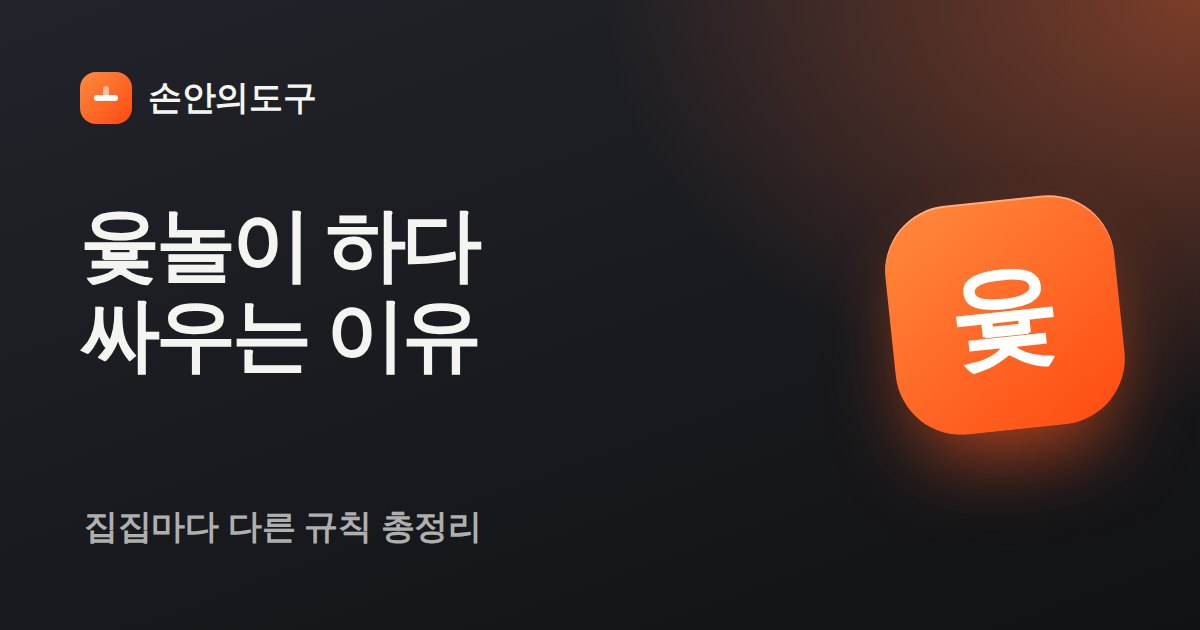
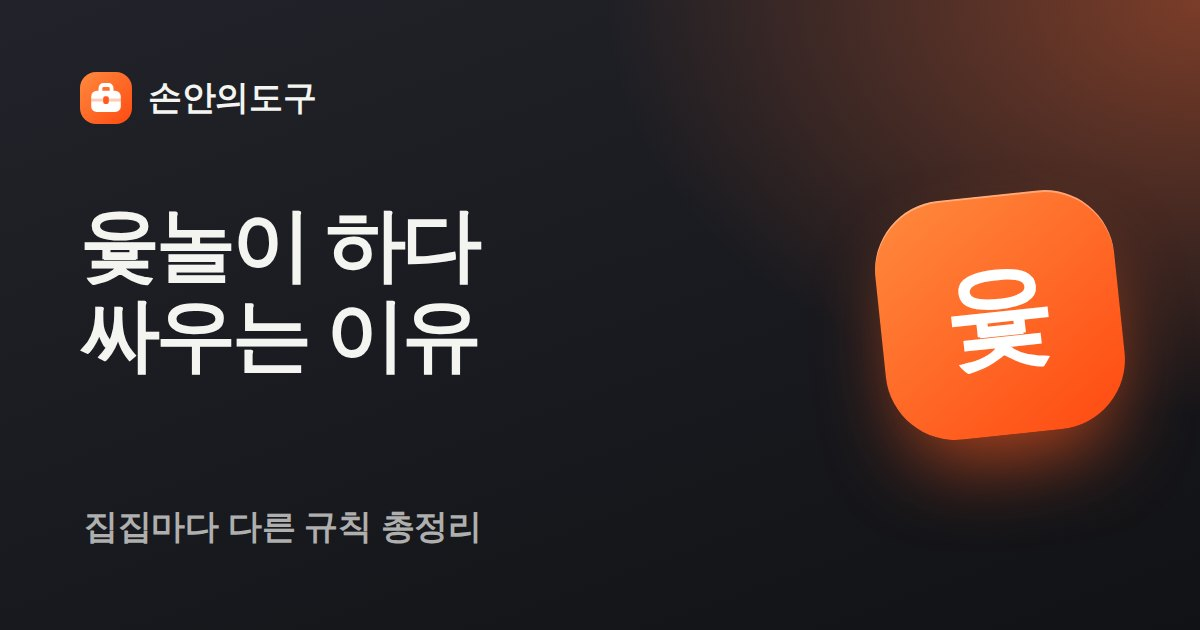
Add files via upload

diff --git a/blog/index.html b/blog/index.html
@@ -66,10 +66,13 @@ footer .fl a:hover{color:var(--ink)}
 .item p{font-size:15px; color:var(--muted); margin:0 0 12px; line-height:1.65}
 .item small{font-size:13px; color:var(--faint)}
 @media (prefers-reduced-motion:reduce){.item{transition:none}.item:hover{transform:none}}
+.item.has-thumb{display:flex; flex-direction:column; gap:16px}
+.thumb{width:100%; height:auto; aspect-ratio:16/9; object-fit:cover; border-radius:18px; background:var(--field); display:block}
+@media (min-width:640px){.item.has-thumb{flex-direction:row; align-items:center}.item.has-thumb .thumb{flex:none; width:168px; aspect-ratio:1/1}}
 </style>
 </head>
 <body>
-<header class="top"><div class="in"><a class="brand" href="/"><svg width="26" height="26" viewBox="0 0 26 26" aria-hidden="true"><defs><linearGradient id="lg" x1="0" y1="0" x2="1" y2="1"><stop offset="0" stop-color="#FF8A3D"/><stop offset="1" stop-color="#FF4A12"/></linearGradient></defs><rect width="26" height="26" rx="8" fill="url(#lg)"/><rect x="7" y="11.5" width="12" height="3" rx="1.5" fill="#fff"/><rect x="11.5" y="7" width="3" height="7.5" rx="1.5" fill="#fff" opacity=".55"/></svg>손안의도구</a><nav style="display:flex;gap:18px"><a href="/blog/">블로그</a><a href="/">전체 도구</a></nav></div></header>
+<header class="top"><div class="in"><a class="brand" href="/"><svg width="26" height="26" viewBox="0 0 26 26" aria-hidden="true"><defs><linearGradient id="lg" x1="0" y1="0" x2="1" y2="1"><stop offset="0" stop-color="#FF8A3D"/><stop offset="1" stop-color="#FF4A12"/></linearGradient></defs><rect width="26" height="26" rx="8" fill="url(#lg)"/><path d="M10.2 9.6V8.1c0-.9.7-1.6 1.6-1.6h2.4c.9 0 1.6.7 1.6 1.6v1.5" fill="none" stroke="#fff" stroke-width="1.9" stroke-linecap="round"/><rect x="5.6" y="9.4" width="14.8" height="10.6" rx="2.8" fill="#fff"/><rect x="5.6" y="13.3" width="14.8" height="1.5" fill="#FF6A2B" opacity=".35"/><rect x="11.6" y="12.1" width="2.8" height="3.9" rx="1" fill="#FF5A1F"/></svg>손안의도구</a><nav style="display:flex;gap:18px"><a href="/blog/">블로그</a><a href="/">전체 도구</a></nav></div></header>
 
 <div class="container">
   <section class="bh">
@@ -77,23 +80,32 @@ footer .fl a:hover{color:var(--ink)}
     <p>계산이 헷갈리는 순간에 꺼내 보는 짧고 쓸모 있는 글.</p>
   </section>
   <main class="list">
-    <a class="item" href="/blog/dutch-pay/">
+    <a class="item has-thumb" href="/blog/dutch-pay/">
+      <img class="thumb" src="/assets/blog/dutch-pay-thumb.webp" alt="" loading="lazy" width="480" height="480">
+      <div class="tx">
       <span class="tag">생활 계산</span>
       <h2>N빵하면 왜 꼭 누군가 서운할까?</h2>
       <p>술 한 잔 마셨는데 똑같이 내고, 송금은 실타래처럼 꼬이고. 항목별로 나누기부터 최소 송금, 끝자리 잔돈 처리까지 깔끔한 정산법.</p>
       <small>2026년 11월 2일 · 4분</small>
+      </div>
     </a>
-    <a class="item" href="/blog/salary-raise/">
+    <a class="item has-thumb" href="/blog/salary-raise/">
+      <img class="thumb" src="/assets/blog/salary-raise-thumb.webp" alt="" loading="lazy" width="480" height="360">
+      <div class="tx">
       <span class="tag">생활 계산</span>
       <h2>연봉 5% 인상, 진짜 얼마나 오른 걸까?</h2>
       <p>A는 150만 원, B는 140만 원 올랐는데 누가 더 많이 오른 걸까. 인상률 계산법과 물가를 뺀 실질 인상률, 2%p 차이가 10년 뒤 850만 원이 되는 이유까지.</p>
       <small>2026년 11월 2일 · 5분</small>
+      </div>
     </a>
-    <a class="item" href="/blog/percent-point/">
+    <a class="item has-thumb" href="/blog/percent-point/">
+      <img class="thumb" src="/assets/blog/percent-point-thumb.webp" alt="" loading="lazy" width="480" height="480">
+      <div class="tx">
       <span class="tag">생활 계산</span>
       <h2>금리 2%에서 3%, 1% 올랐다는 말이 틀린 이유</h2>
       <p>이자가 절반이나 늘었는데 1%밖에 안 올랐다고? 퍼센트와 퍼센트포인트의 차이, 50% 떨어지고 50% 오르면 본전이 안 되는 이유까지.</p>
       <small>2026년 11월 2일 · 4분</small>
+      </div>
     </a>
     <a class="item" href="/blog/yut-rules/">
       <span class="tag">전통 놀이</span>

diff --git a/index.html b/index.html
@@ -82,10 +82,12 @@ footer .fl a:hover{color:var(--ink)}
 .pt{display:inline-block; font-size:12.5px; font-weight:700; color:var(--orange); background:rgba(255,90,31,.08); border-radius:999px; padding:4px 10px; margin-bottom:10px}
 .pi strong{display:block; font-size:19px; font-weight:800; letter-spacing:-.03em; margin-bottom:4px}
 .pd{font-size:14.5px; color:var(--muted)}
+.pi{overflow:hidden}
+.pi .pth{float:right; width:84px; height:84px; object-fit:cover; border-radius:16px; margin-left:14px}
 </style>
 </head>
 <body>
-<header class="top"><div class="in"><a class="brand" href="/"><svg width="26" height="26" viewBox="0 0 26 26" aria-hidden="true"><defs><linearGradient id="lg" x1="0" y1="0" x2="1" y2="1"><stop offset="0" stop-color="#FF8A3D"/><stop offset="1" stop-color="#FF4A12"/></linearGradient></defs><rect width="26" height="26" rx="8" fill="url(#lg)"/><rect x="7" y="11.5" width="12" height="3" rx="1.5" fill="#fff"/><rect x="11.5" y="7" width="3" height="7.5" rx="1.5" fill="#fff" opacity=".55"/></svg>손안의도구</a><nav style="display:flex;gap:18px"><a href="/blog/">블로그</a><a href="/">전체 도구</a></nav></div></header>
+<header class="top"><div class="in"><a class="brand" href="/"><svg width="26" height="26" viewBox="0 0 26 26" aria-hidden="true"><defs><linearGradient id="lg" x1="0" y1="0" x2="1" y2="1"><stop offset="0" stop-color="#FF8A3D"/><stop offset="1" stop-color="#FF4A12"/></linearGradient></defs><rect width="26" height="26" rx="8" fill="url(#lg)"/><path d="M10.2 9.6V8.1c0-.9.7-1.6 1.6-1.6h2.4c.9 0 1.6.7 1.6 1.6v1.5" fill="none" stroke="#fff" stroke-width="1.9" stroke-linecap="round"/><rect x="5.6" y="9.4" width="14.8" height="10.6" rx="2.8" fill="#fff"/><rect x="5.6" y="13.3" width="14.8" height="1.5" fill="#FF6A2B" opacity=".35"/><rect x="11.6" y="12.1" width="2.8" height="3.9" rx="1" fill="#FF5A1F"/></svg>손안의도구</a><nav style="display:flex;gap:18px"><a href="/blog/">블로그</a><a href="/">전체 도구</a></nav></div></header>
 <div class="container">
   <section class="hero">
     <h1>꺼내서 쓰고,<br><span>바로 닫으세요.</span></h1>
@@ -115,9 +117,9 @@ footer .fl a:hover{color:var(--ink)}
   </main>
   <section class="posts">
     <div class="ph"><h2>읽어볼 만한 글</h2><a href="/blog/">전체 보기</a></div>
-    <a class="pi" href="/blog/dutch-pay/"><span class="pt">생활 계산</span><strong>N빵하면 왜 꼭 누군가 서운할까?</strong><span class="pd">항목별로 나누고 최소 송금으로 깔끔하게</span></a>
-    <a class="pi" href="/blog/salary-raise/"><span class="pt">생활 계산</span><strong>연봉 5% 인상, 진짜 얼마나 오른 걸까?</strong><span class="pd">인상률, 물가를 뺀 실질 인상률, 10년 뒤의 차이</span></a>
-    <a class="pi" href="/blog/percent-point/"><span class="pt">생활 계산</span><strong>금리 2%에서 3%, 1% 올랐다는 말이 틀린 이유</strong><span class="pd">이자가 절반 늘었는데 1% 올랐다는 착각</span></a>
+    <a class="pi" href="/blog/dutch-pay/"><img class="pth" src="/assets/blog/dutch-pay-thumb.webp" width="480" height="480" alt="" loading="lazy"><span class="pt">생활 계산</span><strong>N빵하면 왜 꼭 누군가 서운할까?</strong><span class="pd">항목별로 나누고 최소 송금으로 깔끔하게</span></a>
+    <a class="pi" href="/blog/salary-raise/"><img class="pth" src="/assets/blog/salary-raise-thumb.webp" width="480" height="480" alt="" loading="lazy"><span class="pt">생활 계산</span><strong>연봉 5% 인상, 진짜 얼마나 오른 걸까?</strong><span class="pd">인상률, 물가를 뺀 실질 인상률, 10년 뒤의 차이</span></a>
+    <a class="pi" href="/blog/percent-point/"><img class="pth" src="/assets/blog/percent-point-thumb.webp" width="480" height="480" alt="" loading="lazy"><span class="pt">생활 계산</span><strong>금리 2%에서 3%, 1% 올랐다는 말이 틀린 이유</strong><span class="pd">이자가 절반 늘었는데 1% 올랐다는 착각</span></a>
   </section>
 </div>
 <footer><span><b>손안의도구</b> · 꺼내서 쓰고, 바로 닫는 생활 도구</span><span class="fl"><a href="/about/">사이트 소개</a><a href="/privacy/">개인정보처리방침</a></span></footer>

diff --git a/blog/salary-raise/index.html b/blog/salary-raise/index.html
@@ -146,14 +146,17 @@ td:last-child,th:last-child{text-align:right}
 .ill .p3{stroke:var(--faint); stroke-width:4; fill:none; stroke-linecap:round}
 .ill .p5{stroke:#FF5A1F; stroke-width:5; fill:none; stroke-linecap:round}
 .ill .grid{stroke:var(--line); stroke-width:1.5}
+.hero-img{margin:0 0 30px; border-radius:28px; overflow:hidden; box-shadow:var(--shadow); background:var(--field)}
+.hero-img img{display:block; width:100%; height:auto}
 </style>
 </head>
 <body>
-<header class="top"><div class="in"><a class="brand" href="/"><svg width="26" height="26" viewBox="0 0 26 26" aria-hidden="true"><defs><linearGradient id="lg" x1="0" y1="0" x2="1" y2="1"><stop offset="0" stop-color="#FF8A3D"/><stop offset="1" stop-color="#FF4A12"/></linearGradient></defs><rect width="26" height="26" rx="8" fill="url(#lg)"/><rect x="7" y="11.5" width="12" height="3" rx="1.5" fill="#fff"/><rect x="11.5" y="7" width="3" height="7.5" rx="1.5" fill="#fff" opacity=".55"/></svg>손안의도구</a><nav style="display:flex;gap:18px"><a href="/blog/">블로그</a><a href="/">전체 도구</a></nav></div></header>
+<header class="top"><div class="in"><a class="brand" href="/"><svg width="26" height="26" viewBox="0 0 26 26" aria-hidden="true"><defs><linearGradient id="lg" x1="0" y1="0" x2="1" y2="1"><stop offset="0" stop-color="#FF8A3D"/><stop offset="1" stop-color="#FF4A12"/></linearGradient></defs><rect width="26" height="26" rx="8" fill="url(#lg)"/><path d="M10.2 9.6V8.1c0-.9.7-1.6 1.6-1.6h2.4c.9 0 1.6.7 1.6 1.6v1.5" fill="none" stroke="#fff" stroke-width="1.9" stroke-linecap="round"/><rect x="5.6" y="9.4" width="14.8" height="10.6" rx="2.8" fill="#fff"/><rect x="5.6" y="13.3" width="14.8" height="1.5" fill="#FF6A2B" opacity=".35"/><rect x="11.6" y="12.1" width="2.8" height="3.9" rx="1" fill="#FF5A1F"/></svg>손안의도구</a><nav style="display:flex;gap:18px"><a href="/blog/">블로그</a><a href="/">전체 도구</a></nav></div></header>
 <div class="container"><article class="post">
   <div class="crumb"><a href="/blog/">블로그</a> / 생활 계산</div>
   <h1>연봉 5% 인상,<br>진짜 얼마나 오른 걸까?</h1>
   <p class="meta">2026년 11월 2일 · 5분이면 읽어요</p>
+  <figure class="hero-img"><img src="/assets/blog/salary-raise.webp" width="1200" height="900" alt="계산기를 든 직장인이 올라가는 그래프와 장바구니를 보며 연봉과 물가를 생각하는 모습" fetchpriority="high"></figure>
 
   <figure class="ill" aria-label="연봉 3천만 원이 매년 3% 오르면 10년 뒤 약 4,032만 원, 매년 5% 오르면 약 4,887만 원">
     <svg viewBox="0 -10 640 310">

diff --git a/blog/dutch-pay/index.html b/blog/dutch-pay/index.html
@@ -146,14 +146,17 @@ td:last-child,th:last-child{text-align:right}
 .ill .p3{stroke:var(--faint); stroke-width:4; fill:none; stroke-linecap:round}
 .ill .p5{stroke:#FF5A1F; stroke-width:5; fill:none; stroke-linecap:round}
 .ill .grid{stroke:var(--line); stroke-width:1.5}
+.hero-img{margin:0 0 30px; border-radius:28px; overflow:hidden; box-shadow:var(--shadow); background:var(--field)}
+.hero-img img{display:block; width:100%; height:auto}
 </style>
 </head>
 <body>
-<header class="top"><div class="in"><a class="brand" href="/"><svg width="26" height="26" viewBox="0 0 26 26" aria-hidden="true"><defs><linearGradient id="lg" x1="0" y1="0" x2="1" y2="1"><stop offset="0" stop-color="#FF8A3D"/><stop offset="1" stop-color="#FF4A12"/></linearGradient></defs><rect width="26" height="26" rx="8" fill="url(#lg)"/><rect x="7" y="11.5" width="12" height="3" rx="1.5" fill="#fff"/><rect x="11.5" y="7" width="3" height="7.5" rx="1.5" fill="#fff" opacity=".55"/></svg>손안의도구</a><nav style="display:flex;gap:18px"><a href="/blog/">블로그</a><a href="/">전체 도구</a></nav></div></header>
+<header class="top"><div class="in"><a class="brand" href="/"><svg width="26" height="26" viewBox="0 0 26 26" aria-hidden="true"><defs><linearGradient id="lg" x1="0" y1="0" x2="1" y2="1"><stop offset="0" stop-color="#FF8A3D"/><stop offset="1" stop-color="#FF4A12"/></linearGradient></defs><rect width="26" height="26" rx="8" fill="url(#lg)"/><path d="M10.2 9.6V8.1c0-.9.7-1.6 1.6-1.6h2.4c.9 0 1.6.7 1.6 1.6v1.5" fill="none" stroke="#fff" stroke-width="1.9" stroke-linecap="round"/><rect x="5.6" y="9.4" width="14.8" height="10.6" rx="2.8" fill="#fff"/><rect x="5.6" y="13.3" width="14.8" height="1.5" fill="#FF6A2B" opacity=".35"/><rect x="11.6" y="12.1" width="2.8" height="3.9" rx="1" fill="#FF5A1F"/></svg>손안의도구</a><nav style="display:flex;gap:18px"><a href="/blog/">블로그</a><a href="/">전체 도구</a></nav></div></header>
 <div class="container"><article class="post">
   <div class="crumb"><a href="/blog/">블로그</a> / 생활 계산</div>
   <h1>N빵하면 왜 꼭<br>누군가 서운할까?</h1>
   <p class="meta">2026년 11월 2일 · 4분이면 읽어요</p>
+  <figure class="hero-img"><img src="/assets/blog/dutch-pay.webp" width="1200" height="1200" alt="네 친구가 테이블에 둘러앉아 영수증과 휴대폰 계산기를 보며 즐겁게 정산하는 모습" fetchpriority="high"></figure>
 
   <figure class="ill" aria-label="네 명이 서로 주고받으면 송금이 여섯 번까지 생기지만, 정리하면 두세 번으로 줄어든다">
     <svg viewBox="0 0 640 300">

diff --git a/blog/percent-point/index.html b/blog/percent-point/index.html
@@ -146,14 +146,17 @@ td:last-child,th:last-child{text-align:right}
 .ill .p3{stroke:var(--faint); stroke-width:4; fill:none; stroke-linecap:round}
 .ill .p5{stroke:#FF5A1F; stroke-width:5; fill:none; stroke-linecap:round}
 .ill .grid{stroke:var(--line); stroke-width:1.5}
+.hero-img{margin:0 0 30px; border-radius:28px; overflow:hidden; box-shadow:var(--shadow); background:var(--field)}
+.hero-img img{display:block; width:100%; height:auto}
 </style>
 </head>
 <body>
-<header class="top"><div class="in"><a class="brand" href="/"><svg width="26" height="26" viewBox="0 0 26 26" aria-hidden="true"><defs><linearGradient id="lg" x1="0" y1="0" x2="1" y2="1"><stop offset="0" stop-color="#FF8A3D"/><stop offset="1" stop-color="#FF4A12"/></linearGradient></defs><rect width="26" height="26" rx="8" fill="url(#lg)"/><rect x="7" y="11.5" width="12" height="3" rx="1.5" fill="#fff"/><rect x="11.5" y="7" width="3" height="7.5" rx="1.5" fill="#fff" opacity=".55"/></svg>손안의도구</a><nav style="display:flex;gap:18px"><a href="/blog/">블로그</a><a href="/">전체 도구</a></nav></div></header>
+<header class="top"><div class="in"><a class="brand" href="/"><svg width="26" height="26" viewBox="0 0 26 26" aria-hidden="true"><defs><linearGradient id="lg" x1="0" y1="0" x2="1" y2="1"><stop offset="0" stop-color="#FF8A3D"/><stop offset="1" stop-color="#FF4A12"/></linearGradient></defs><rect width="26" height="26" rx="8" fill="url(#lg)"/><path d="M10.2 9.6V8.1c0-.9.7-1.6 1.6-1.6h2.4c.9 0 1.6.7 1.6 1.6v1.5" fill="none" stroke="#fff" stroke-width="1.9" stroke-linecap="round"/><rect x="5.6" y="9.4" width="14.8" height="10.6" rx="2.8" fill="#fff"/><rect x="5.6" y="13.3" width="14.8" height="1.5" fill="#FF6A2B" opacity=".35"/><rect x="11.6" y="12.1" width="2.8" height="3.9" rx="1" fill="#FF5A1F"/></svg>손안의도구</a><nav style="display:flex;gap:18px"><a href="/blog/">블로그</a><a href="/">전체 도구</a></nav></div></header>
 <div class="container"><article class="post">
   <div class="crumb"><a href="/blog/">블로그</a> / 생활 계산</div>
   <h1>금리 2%에서 3%,<br>1% 올랐다는 말이 틀린 이유</h1>
   <p class="meta">2026년 11월 2일 · 4분이면 읽어요</p>
+  <figure class="hero-img"><img src="/assets/blog/percent-point.webp" width="1200" height="1200" alt="금리 2%와 3% 카드를 양손에 들고 고민하는 사람, 옆에 집 모형과 동전, 돼지 저금통" fetchpriority="high"></figure>
 
   <figure class="ill" aria-label="100에서 50% 떨어지면 50, 다시 50% 오르면 75. 원래대로 돌아오지 않는다">
     <svg viewBox="0 0 640 300">

diff --git a/about/index.html b/about/index.html
@@ -76,7 +76,7 @@ footer .fl a:hover{color:var(--ink)}
 </style>
 </head>
 <body>
-<header class="top"><div class="in"><a class="brand" href="/"><svg width="26" height="26" viewBox="0 0 26 26" aria-hidden="true"><defs><linearGradient id="lg" x1="0" y1="0" x2="1" y2="1"><stop offset="0" stop-color="#FF8A3D"/><stop offset="1" stop-color="#FF4A12"/></linearGradient></defs><rect width="26" height="26" rx="8" fill="url(#lg)"/><rect x="7" y="11.5" width="12" height="3" rx="1.5" fill="#fff"/><rect x="11.5" y="7" width="3" height="7.5" rx="1.5" fill="#fff" opacity=".55"/></svg>손안의도구</a><nav style="display:flex;gap:18px"><a href="/blog/">블로그</a><a href="/">전체 도구</a></nav></div></header>
+<header class="top"><div class="in"><a class="brand" href="/"><svg width="26" height="26" viewBox="0 0 26 26" aria-hidden="true"><defs><linearGradient id="lg" x1="0" y1="0" x2="1" y2="1"><stop offset="0" stop-color="#FF8A3D"/><stop offset="1" stop-color="#FF4A12"/></linearGradient></defs><rect width="26" height="26" rx="8" fill="url(#lg)"/><path d="M10.2 9.6V8.1c0-.9.7-1.6 1.6-1.6h2.4c.9 0 1.6.7 1.6 1.6v1.5" fill="none" stroke="#fff" stroke-width="1.9" stroke-linecap="round"/><rect x="5.6" y="9.4" width="14.8" height="10.6" rx="2.8" fill="#fff"/><rect x="5.6" y="13.3" width="14.8" height="1.5" fill="#FF6A2B" opacity=".35"/><rect x="11.6" y="12.1" width="2.8" height="3.9" rx="1" fill="#FF5A1F"/></svg>손안의도구</a><nav style="display:flex;gap:18px"><a href="/blog/">블로그</a><a href="/">전체 도구</a></nav></div></header>
 <div class="container"><main class="doc">
 <h1>필요할 때 꺼내 쓰는<br>손안의 도구 상자</h1>
 <p class="lead">손안의도구는 일상에서 문득 필요해지는 계산기, 생활 도구, 놀이, 그리고 그걸 더 잘 쓰는 법을 담은 글을 모아둔 무료 사이트입니다.</p>

diff --git a/blog/yut-rules/index.html b/blog/yut-rules/index.html
@@ -149,7 +149,7 @@ td:last-child,th:last-child{text-align:right}
 </style>
 </head>
 <body>
-<header class="top"><div class="in"><a class="brand" href="/"><svg width="26" height="26" viewBox="0 0 26 26" aria-hidden="true"><defs><linearGradient id="lg" x1="0" y1="0" x2="1" y2="1"><stop offset="0" stop-color="#FF8A3D"/><stop offset="1" stop-color="#FF4A12"/></linearGradient></defs><rect width="26" height="26" rx="8" fill="url(#lg)"/><rect x="7" y="11.5" width="12" height="3" rx="1.5" fill="#fff"/><rect x="11.5" y="7" width="3" height="7.5" rx="1.5" fill="#fff" opacity=".55"/></svg>손안의도구</a><nav style="display:flex;gap:18px"><a href="/blog/">블로그</a><a href="/">전체 도구</a></nav></div></header>
+<header class="top"><div class="in"><a class="brand" href="/"><svg width="26" height="26" viewBox="0 0 26 26" aria-hidden="true"><defs><linearGradient id="lg" x1="0" y1="0" x2="1" y2="1"><stop offset="0" stop-color="#FF8A3D"/><stop offset="1" stop-color="#FF4A12"/></linearGradient></defs><rect width="26" height="26" rx="8" fill="url(#lg)"/><path d="M10.2 9.6V8.1c0-.9.7-1.6 1.6-1.6h2.4c.9 0 1.6.7 1.6 1.6v1.5" fill="none" stroke="#fff" stroke-width="1.9" stroke-linecap="round"/><rect x="5.6" y="9.4" width="14.8" height="10.6" rx="2.8" fill="#fff"/><rect x="5.6" y="13.3" width="14.8" height="1.5" fill="#FF6A2B" opacity=".35"/><rect x="11.6" y="12.1" width="2.8" height="3.9" rx="1" fill="#FF5A1F"/></svg>손안의도구</a><nav style="display:flex;gap:18px"><a href="/blog/">블로그</a><a href="/">전체 도구</a></nav></div></header>
 <div class="container"><article class="post">
   <div class="crumb"><a href="/blog/">블로그</a> / 전통 놀이</div>
   <h1>윷놀이 하다 싸우는 이유,<br>집집마다 규칙이 달라서예요</h1>

diff --git a/blog/simple-receipt/index.html b/blog/simple-receipt/index.html
@@ -149,7 +149,7 @@ td:last-child,th:last-child{text-align:right}
 </style>
 </head>
 <body>
-<header class="top"><div class="in"><a class="brand" href="/"><svg width="26" height="26" viewBox="0 0 26 26" aria-hidden="true"><defs><linearGradient id="lg" x1="0" y1="0" x2="1" y2="1"><stop offset="0" stop-color="#FF8A3D"/><stop offset="1" stop-color="#FF4A12"/></linearGradient></defs><rect width="26" height="26" rx="8" fill="url(#lg)"/><rect x="7" y="11.5" width="12" height="3" rx="1.5" fill="#fff"/><rect x="11.5" y="7" width="3" height="7.5" rx="1.5" fill="#fff" opacity=".55"/></svg>손안의도구</a><nav style="display:flex;gap:18px"><a href="/blog/">블로그</a><a href="/">전체 도구</a></nav></div></header>
+<header class="top"><div class="in"><a class="brand" href="/"><svg width="26" height="26" viewBox="0 0 26 26" aria-hidden="true"><defs><linearGradient id="lg" x1="0" y1="0" x2="1" y2="1"><stop offset="0" stop-color="#FF8A3D"/><stop offset="1" stop-color="#FF4A12"/></linearGradient></defs><rect width="26" height="26" rx="8" fill="url(#lg)"/><path d="M10.2 9.6V8.1c0-.9.7-1.6 1.6-1.6h2.4c.9 0 1.6.7 1.6 1.6v1.5" fill="none" stroke="#fff" stroke-width="1.9" stroke-linecap="round"/><rect x="5.6" y="9.4" width="14.8" height="10.6" rx="2.8" fill="#fff"/><rect x="5.6" y="13.3" width="14.8" height="1.5" fill="#FF6A2B" opacity=".35"/><rect x="11.6" y="12.1" width="2.8" height="3.9" rx="1" fill="#FF5A1F"/></svg>손안의도구</a><nav style="display:flex;gap:18px"><a href="/blog/">블로그</a><a href="/">전체 도구</a></nav></div></header>
 <div class="container"><article class="post">
   <div class="crumb"><a href="/blog/">블로그</a> / 세금 상식</div>
   <h1>3만 원 넘으면<br>간이영수증은 쓸모없을까?</h1>

diff --git a/traditional/yut/index.html b/traditional/yut/index.html
@@ -222,7 +222,7 @@ footer .fl a:hover{color:var(--ink)}
 </style>
 </head>
 <body>
-<header class="top"><div class="in"><a class="brand" href="/"><svg width="26" height="26" viewBox="0 0 26 26" aria-hidden="true"><defs><linearGradient id="lg" x1="0" y1="0" x2="1" y2="1"><stop offset="0" stop-color="#FF8A3D"/><stop offset="1" stop-color="#FF4A12"/></linearGradient></defs><rect width="26" height="26" rx="8" fill="url(#lg)"/><rect x="7" y="11.5" width="12" height="3" rx="1.5" fill="#fff"/><rect x="11.5" y="7" width="3" height="7.5" rx="1.5" fill="#fff" opacity=".55"/></svg>손안의도구</a><nav style="display:flex;gap:18px"><a href="/blog/">블로그</a><a href="/">전체 도구</a></nav></div></header>
+<header class="top"><div class="in"><a class="brand" href="/"><svg width="26" height="26" viewBox="0 0 26 26" aria-hidden="true"><defs><linearGradient id="lg" x1="0" y1="0" x2="1" y2="1"><stop offset="0" stop-color="#FF8A3D"/><stop offset="1" stop-color="#FF4A12"/></linearGradient></defs><rect width="26" height="26" rx="8" fill="url(#lg)"/><path d="M10.2 9.6V8.1c0-.9.7-1.6 1.6-1.6h2.4c.9 0 1.6.7 1.6 1.6v1.5" fill="none" stroke="#fff" stroke-width="1.9" stroke-linecap="round"/><rect x="5.6" y="9.4" width="14.8" height="10.6" rx="2.8" fill="#fff"/><rect x="5.6" y="13.3" width="14.8" height="1.5" fill="#FF6A2B" opacity=".35"/><rect x="11.6" y="12.1" width="2.8" height="3.9" rx="1" fill="#FF5A1F"/></svg>손안의도구</a><nav style="display:flex;gap:18px"><a href="/blog/">블로그</a><a href="/">전체 도구</a></nav></div></header>
 <div class="container">
   <section class="hero">
     <div class="crumb"><a href="/traditional/">전통 놀이</a> / 윷놀이</div>

diff --git a/blog/discount-rate/index.html b/blog/discount-rate/index.html
@@ -135,7 +135,7 @@ td:last-child,th:last-child{text-align:right}
 </style>
 </head>
 <body>
-<header class="top"><div class="in"><a class="brand" href="/"><svg width="26" height="26" viewBox="0 0 26 26" aria-hidden="true"><defs><linearGradient id="lg" x1="0" y1="0" x2="1" y2="1"><stop offset="0" stop-color="#FF8A3D"/><stop offset="1" stop-color="#FF4A12"/></linearGradient></defs><rect width="26" height="26" rx="8" fill="url(#lg)"/><rect x="7" y="11.5" width="12" height="3" rx="1.5" fill="#fff"/><rect x="11.5" y="7" width="3" height="7.5" rx="1.5" fill="#fff" opacity=".55"/></svg>손안의도구</a><nav style="display:flex;gap:18px"><a href="/blog/">블로그</a><a href="/">전체 도구</a></nav></div></header>
+<header class="top"><div class="in"><a class="brand" href="/"><svg width="26" height="26" viewBox="0 0 26 26" aria-hidden="true"><defs><linearGradient id="lg" x1="0" y1="0" x2="1" y2="1"><stop offset="0" stop-color="#FF8A3D"/><stop offset="1" stop-color="#FF4A12"/></linearGradient></defs><rect width="26" height="26" rx="8" fill="url(#lg)"/><path d="M10.2 9.6V8.1c0-.9.7-1.6 1.6-1.6h2.4c.9 0 1.6.7 1.6 1.6v1.5" fill="none" stroke="#fff" stroke-width="1.9" stroke-linecap="round"/><rect x="5.6" y="9.4" width="14.8" height="10.6" rx="2.8" fill="#fff"/><rect x="5.6" y="13.3" width="14.8" height="1.5" fill="#FF6A2B" opacity=".35"/><rect x="11.6" y="12.1" width="2.8" height="3.9" rx="1" fill="#FF5A1F"/></svg>손안의도구</a><nav style="display:flex;gap:18px"><a href="/blog/">블로그</a><a href="/">전체 도구</a></nav></div></header>
 
 <div class="container"><article class="post">
   <div class="crumb"><a href="/blog/">블로그</a> / 생활 계산</div>

diff --git a/404.html b/404.html
@@ -85,7 +85,7 @@ footer .fl a:hover{color:var(--ink)}
 .ic{font-size:24px}</style>
 </head>
 <body>
-<header class="top"><div class="in"><a class="brand" href="/"><svg width="26" height="26" viewBox="0 0 26 26" aria-hidden="true"><defs><linearGradient id="lg" x1="0" y1="0" x2="1" y2="1"><stop offset="0" stop-color="#FF8A3D"/><stop offset="1" stop-color="#FF4A12"/></linearGradient></defs><rect width="26" height="26" rx="8" fill="url(#lg)"/><rect x="7" y="11.5" width="12" height="3" rx="1.5" fill="#fff"/><rect x="11.5" y="7" width="3" height="7.5" rx="1.5" fill="#fff" opacity=".55"/></svg>손안의도구</a><nav style="display:flex;gap:18px"><a href="/blog/">블로그</a><a href="/">전체 도구</a></nav></div></header>
+<header class="top"><div class="in"><a class="brand" href="/"><svg width="26" height="26" viewBox="0 0 26 26" aria-hidden="true"><defs><linearGradient id="lg" x1="0" y1="0" x2="1" y2="1"><stop offset="0" stop-color="#FF8A3D"/><stop offset="1" stop-color="#FF4A12"/></linearGradient></defs><rect width="26" height="26" rx="8" fill="url(#lg)"/><path d="M10.2 9.6V8.1c0-.9.7-1.6 1.6-1.6h2.4c.9 0 1.6.7 1.6 1.6v1.5" fill="none" stroke="#fff" stroke-width="1.9" stroke-linecap="round"/><rect x="5.6" y="9.4" width="14.8" height="10.6" rx="2.8" fill="#fff"/><rect x="5.6" y="13.3" width="14.8" height="1.5" fill="#FF6A2B" opacity=".35"/><rect x="11.6" y="12.1" width="2.8" height="3.9" rx="1" fill="#FF5A1F"/></svg>손안의도구</a><nav style="display:flex;gap:18px"><a href="/blog/">블로그</a><a href="/">전체 도구</a></nav></div></header>
 <div class="container">
   <section class="hero">
     <h1>404<br><span>여긴 비어 있어요.</span></h1>

diff --git a/traditional/index.html b/traditional/index.html
@@ -78,7 +78,7 @@ footer .fl a:hover{color:var(--ink)}
 </style>
 </head>
 <body>
-<header class="top"><div class="in"><a class="brand" href="/"><svg width="26" height="26" viewBox="0 0 26 26" aria-hidden="true"><defs><linearGradient id="lg" x1="0" y1="0" x2="1" y2="1"><stop offset="0" stop-color="#FF8A3D"/><stop offset="1" stop-color="#FF4A12"/></linearGradient></defs><rect width="26" height="26" rx="8" fill="url(#lg)"/><rect x="7" y="11.5" width="12" height="3" rx="1.5" fill="#fff"/><rect x="11.5" y="7" width="3" height="7.5" rx="1.5" fill="#fff" opacity=".55"/></svg>손안의도구</a><nav style="display:flex;gap:18px"><a href="/blog/">블로그</a><a href="/">전체 도구</a></nav></div></header>
+<header class="top"><div class="in"><a class="brand" href="/"><svg width="26" height="26" viewBox="0 0 26 26" aria-hidden="true"><defs><linearGradient id="lg" x1="0" y1="0" x2="1" y2="1"><stop offset="0" stop-color="#FF8A3D"/><stop offset="1" stop-color="#FF4A12"/></linearGradient></defs><rect width="26" height="26" rx="8" fill="url(#lg)"/><path d="M10.2 9.6V8.1c0-.9.7-1.6 1.6-1.6h2.4c.9 0 1.6.7 1.6 1.6v1.5" fill="none" stroke="#fff" stroke-width="1.9" stroke-linecap="round"/><rect x="5.6" y="9.4" width="14.8" height="10.6" rx="2.8" fill="#fff"/><rect x="5.6" y="13.3" width="14.8" height="1.5" fill="#FF6A2B" opacity=".35"/><rect x="11.6" y="12.1" width="2.8" height="3.9" rx="1" fill="#FF5A1F"/></svg>손안의도구</a><nav style="display:flex;gap:18px"><a href="/blog/">블로그</a><a href="/">전체 도구</a></nav></div></header>
 <div class="container">
   <section class="hero">
     <div class="crumb"><a href="/">전체 도구</a> / 전통 놀이</div>
